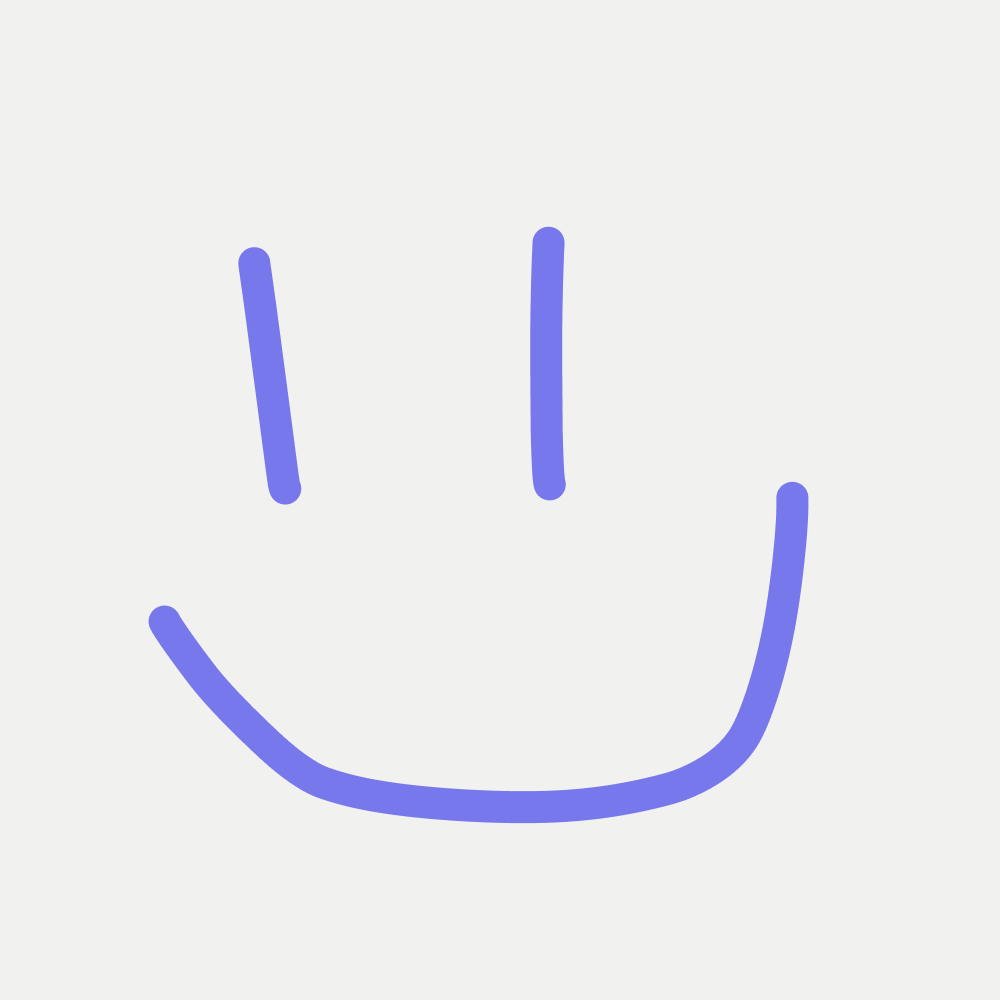
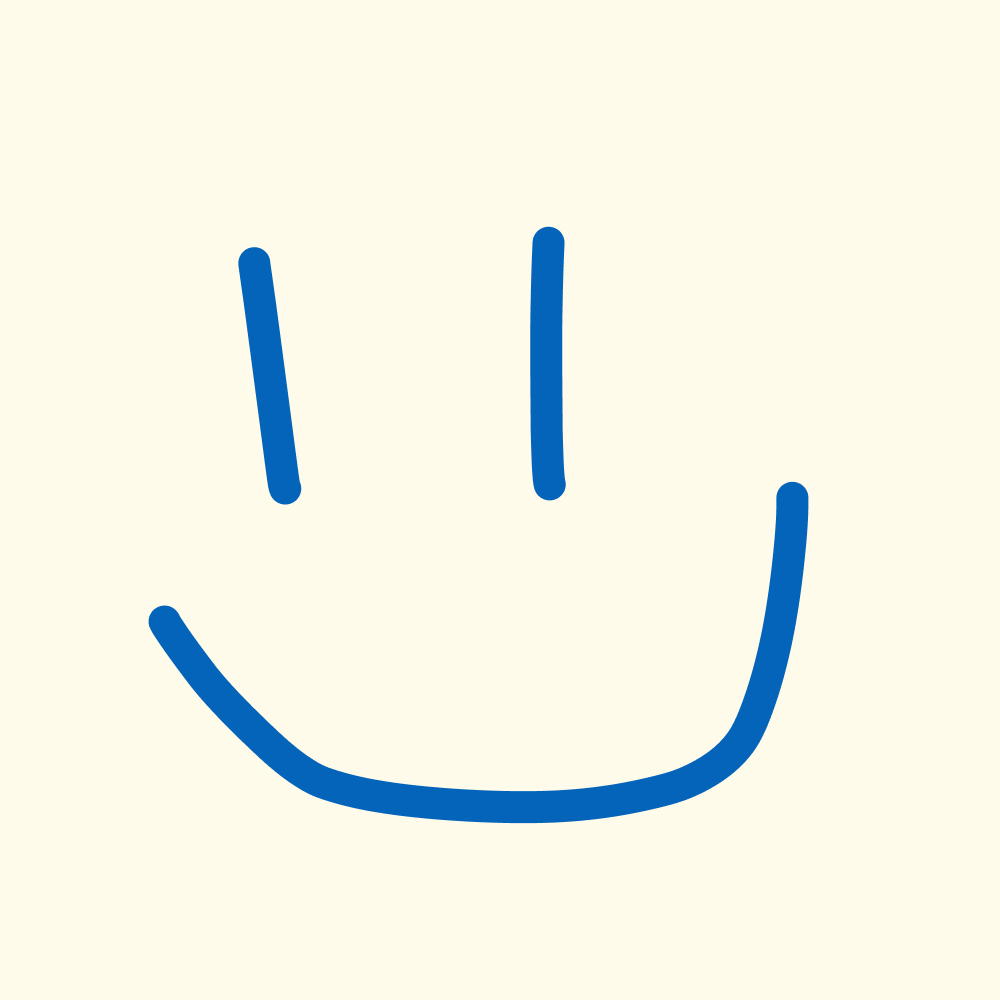
Update poster palette and mobile controls

Changed region(s): [[0.155, 0.465, 0.806, 0.837], [0.527, 0.217, 0.589, 0.496], [0.217, 0.248, 0.31, 0.527]]

diff --git a/src/components/poster-app.tsx b/src/components/poster-app.tsx
@@ -66,6 +66,7 @@ const maxZoomCanvasScale = 14;
 const authorLabelFontRatio = 0.08;
 const authorLabelMarginRatio = 0.05;
 const authorLabelFallbackFontFamily = "Arial, sans-serif";
+const posterBackgroundColor = "#FFFBE8";
 const visibleRefreshMs = 1_000;
 const hiddenRefreshMs = 5_000;
 
@@ -159,6 +160,18 @@ export function PosterApp({ initialSnapshot }: { initialSnapshot: PosterSnapshot
       document.removeEventListener("visibilitychange", refreshNow);
     };
   }, [refresh]);
+
+  useEffect(() => {
+    const preventGesture = (event: Event) => event.preventDefault();
+    document.addEventListener("gesturestart", preventGesture, { passive: false });
+    document.addEventListener("gesturechange", preventGesture, { passive: false });
+    document.addEventListener("gestureend", preventGesture, { passive: false });
+    return () => {
+      document.removeEventListener("gesturestart", preventGesture);
+      document.removeEventListener("gesturechange", preventGesture);
+      document.removeEventListener("gestureend", preventGesture);
+    };
+  }, []);
 
   useEffect(() => {
     if (replayStartedAt === null || !config) return;
@@ -257,6 +270,19 @@ export function PosterApp({ initialSnapshot }: { initialSnapshot: PosterSnapshot
     window.addEventListener("keydown", onKeyDown);
     return () => window.removeEventListener("keydown", onKeyDown);
   }, [navigateView, selection]);
+
+  useEffect(() => {
+    if (!selection) return;
+
+    const onKeyDown = (event: KeyboardEvent) => {
+      if (event.key !== "Escape") return;
+      event.preventDefault();
+      closeSelection();
+    };
+
+    document.addEventListener("keydown", onKeyDown, true);
+    return () => document.removeEventListener("keydown", onKeyDown, true);
+  }, [selection]);
 
   function beginSwipe(event: PointerEvent<HTMLDivElement>) {
     if (selection?.kind !== "view" || event.pointerType === "mouse") return;
@@ -365,7 +391,7 @@ export function PosterApp({ initialSnapshot }: { initialSnapshot: PosterSnapshot
     const ctx = canvas.getContext("2d");
     if (!ctx) return;
 
-    ctx.fillStyle = "#fff";
+    ctx.fillStyle = posterBackgroundColor;
     ctx.fillRect(0, 0, canvas.width, canvas.height);
     ctx.fillStyle = "#000";
     ctx.textAlign = "left";
@@ -599,7 +625,7 @@ function DrawingCanvas({
       const ctx = canvas.getContext("2d");
       if (!ctx) return;
       ctx.setTransform(canvas.width / config.canvasSize, 0, 0, canvas.height / config.canvasSize, 0, 0);
-      ctx.fillStyle = "#fff";
+      ctx.fillStyle = posterBackgroundColor;
       ctx.fillRect(0, 0, config.canvasSize, config.canvasSize);
       if (!drawing) return;
 
@@ -1062,6 +1088,15 @@ function getReplayByCellId(mode: ReplayMode, elapsedMs: number, drawings: CellDr
   return map;
 }
 
+function shufflePalette(palette: string[]) {
+  const shuffled = [...palette];
+  for (let index = shuffled.length - 1; index > 0; index -= 1) {
+    const swapIndex = Math.floor(Math.random() * (index + 1));
+    [shuffled[index], shuffled[swapIndex]] = [shuffled[swapIndex], shuffled[index]];
+  }
+  return shuffled;
+}
+
 function Editor({
   cellId,
   config,
@@ -1082,7 +1117,8 @@ function Editor({
   const drawingStartedAtRef = useRef(performance.now());
   const strokeStartedAtRef = useRef(0);
   const [strokesVersion, setStrokesVersion] = useState(0);
-  const [color, setColor] = useState(config.palette[0]);
+  const [randomizedPalette] = useState(() => shufflePalette(config.palette));
+  const [color, setColor] = useState(randomizedPalette[0] ?? config.palette[0]);
   const [name, setName] = useState("");
 
   const redraw = useCallback(() => {
@@ -1091,7 +1127,7 @@ function Editor({
     const ctx = canvas.getContext("2d");
     if (!ctx) return;
     ctx.setTransform(canvas.width / config.canvasSize, 0, 0, canvas.height / config.canvasSize, 0, 0);
-    ctx.fillStyle = "#fff";
+    ctx.fillStyle = posterBackgroundColor;
     ctx.fillRect(0, 0, config.canvasSize, config.canvasSize);
     drawStrokes(ctx, [...strokesRef.current, ...(currentStrokeRef.current ? [currentStrokeRef.current] : [])], config.canvasSize);
     const previewName = name.trim();
@@ -1253,7 +1289,7 @@ function Editor({
           </button>
         </div>
         <div className="editorControlsSegment palette" aria-label="Drawing colors">
-          {config.palette.map((item) => (
+          {randomizedPalette.map((item) => (
             <button
               key={item}
               type="button"

diff --git a/src/app/globals.css b/src/app/globals.css
@@ -67,7 +67,7 @@ button {
     calc((100vh - 112px) * var(--poster-width) / var(--poster-height))
   );
   aspect-ratio: calc(var(--poster-width) / var(--poster-height));
-  background: #fff;
+  background: #fffbe8;
   border: 1px solid #cccccc8f;
   display: grid;
   grid-template-rows: calc(var(--title-height) / var(--poster-height) * 100%) 1fr;
@@ -99,7 +99,7 @@ button {
 
 .posterGrid {
   align-self: center;
-  background: #fff;
+  background: #fffbe8;
   display: grid;
   gap: 0;
   grid-template-columns: repeat(var(--columns), 1fr);
@@ -165,7 +165,7 @@ button {
 
 .cell {
   appearance: none;
-  background: #fff;
+  background: #fffbe8;
   border: 0;
   cursor: pointer;
   display: block;
@@ -392,7 +392,7 @@ button {
 
 .viewZoomPanel {
   aspect-ratio: 1;
-  background: #fff;
+  background: #fffbe8;
   gap: 0;
   overflow: hidden;
   pointer-events: none;
@@ -541,6 +541,7 @@ button {
 
 .palette {
   display: flex;
+  flex-shrink: 0;
   gap: 6px;
 }
 
@@ -549,6 +550,7 @@ button {
   border-radius: 999px;
   cursor: pointer;
   height: 34px;
+  flex-shrink: 0;
   padding: 0;
   width: 34px;
 }

diff --git a/src/app/layout.tsx b/src/app/layout.tsx
@@ -15,10 +15,12 @@ export const metadata: Metadata = {
 };
 
 export const viewport: Viewport = {
-  themeColor: "#F1F1EF",
+  themeColor: "#FFFBE8",
   width: "device-width",
   initialScale: 1,
+  minimumScale: 1,
   maximumScale: 1,
+  userScalable: false,
 };
 
 export default function RootLayout({ children }: Readonly<{ children: React.ReactNode }>) {

diff --git a/src/lib/poster-config.ts b/src/lib/poster-config.ts
@@ -32,7 +32,7 @@ export const posterConfig: PosterConfig = {
   maxReplayMs: 45_000,
   sequentialReplayCellMs: 2_200,
   exportDpi: 150,
-  palette: ["#3d348bff", "#7678edff", "#f7b801ff", "#f18701ff", "#f35b04ff"],
+  palette: ["#FFC82D", "#0364BA", "#41A9AC", "#DC2625", "#000000"],
 };
 
 export function getCellIds(config: Pick<PosterConfig, "rows" | "columns"> = posterConfig) {